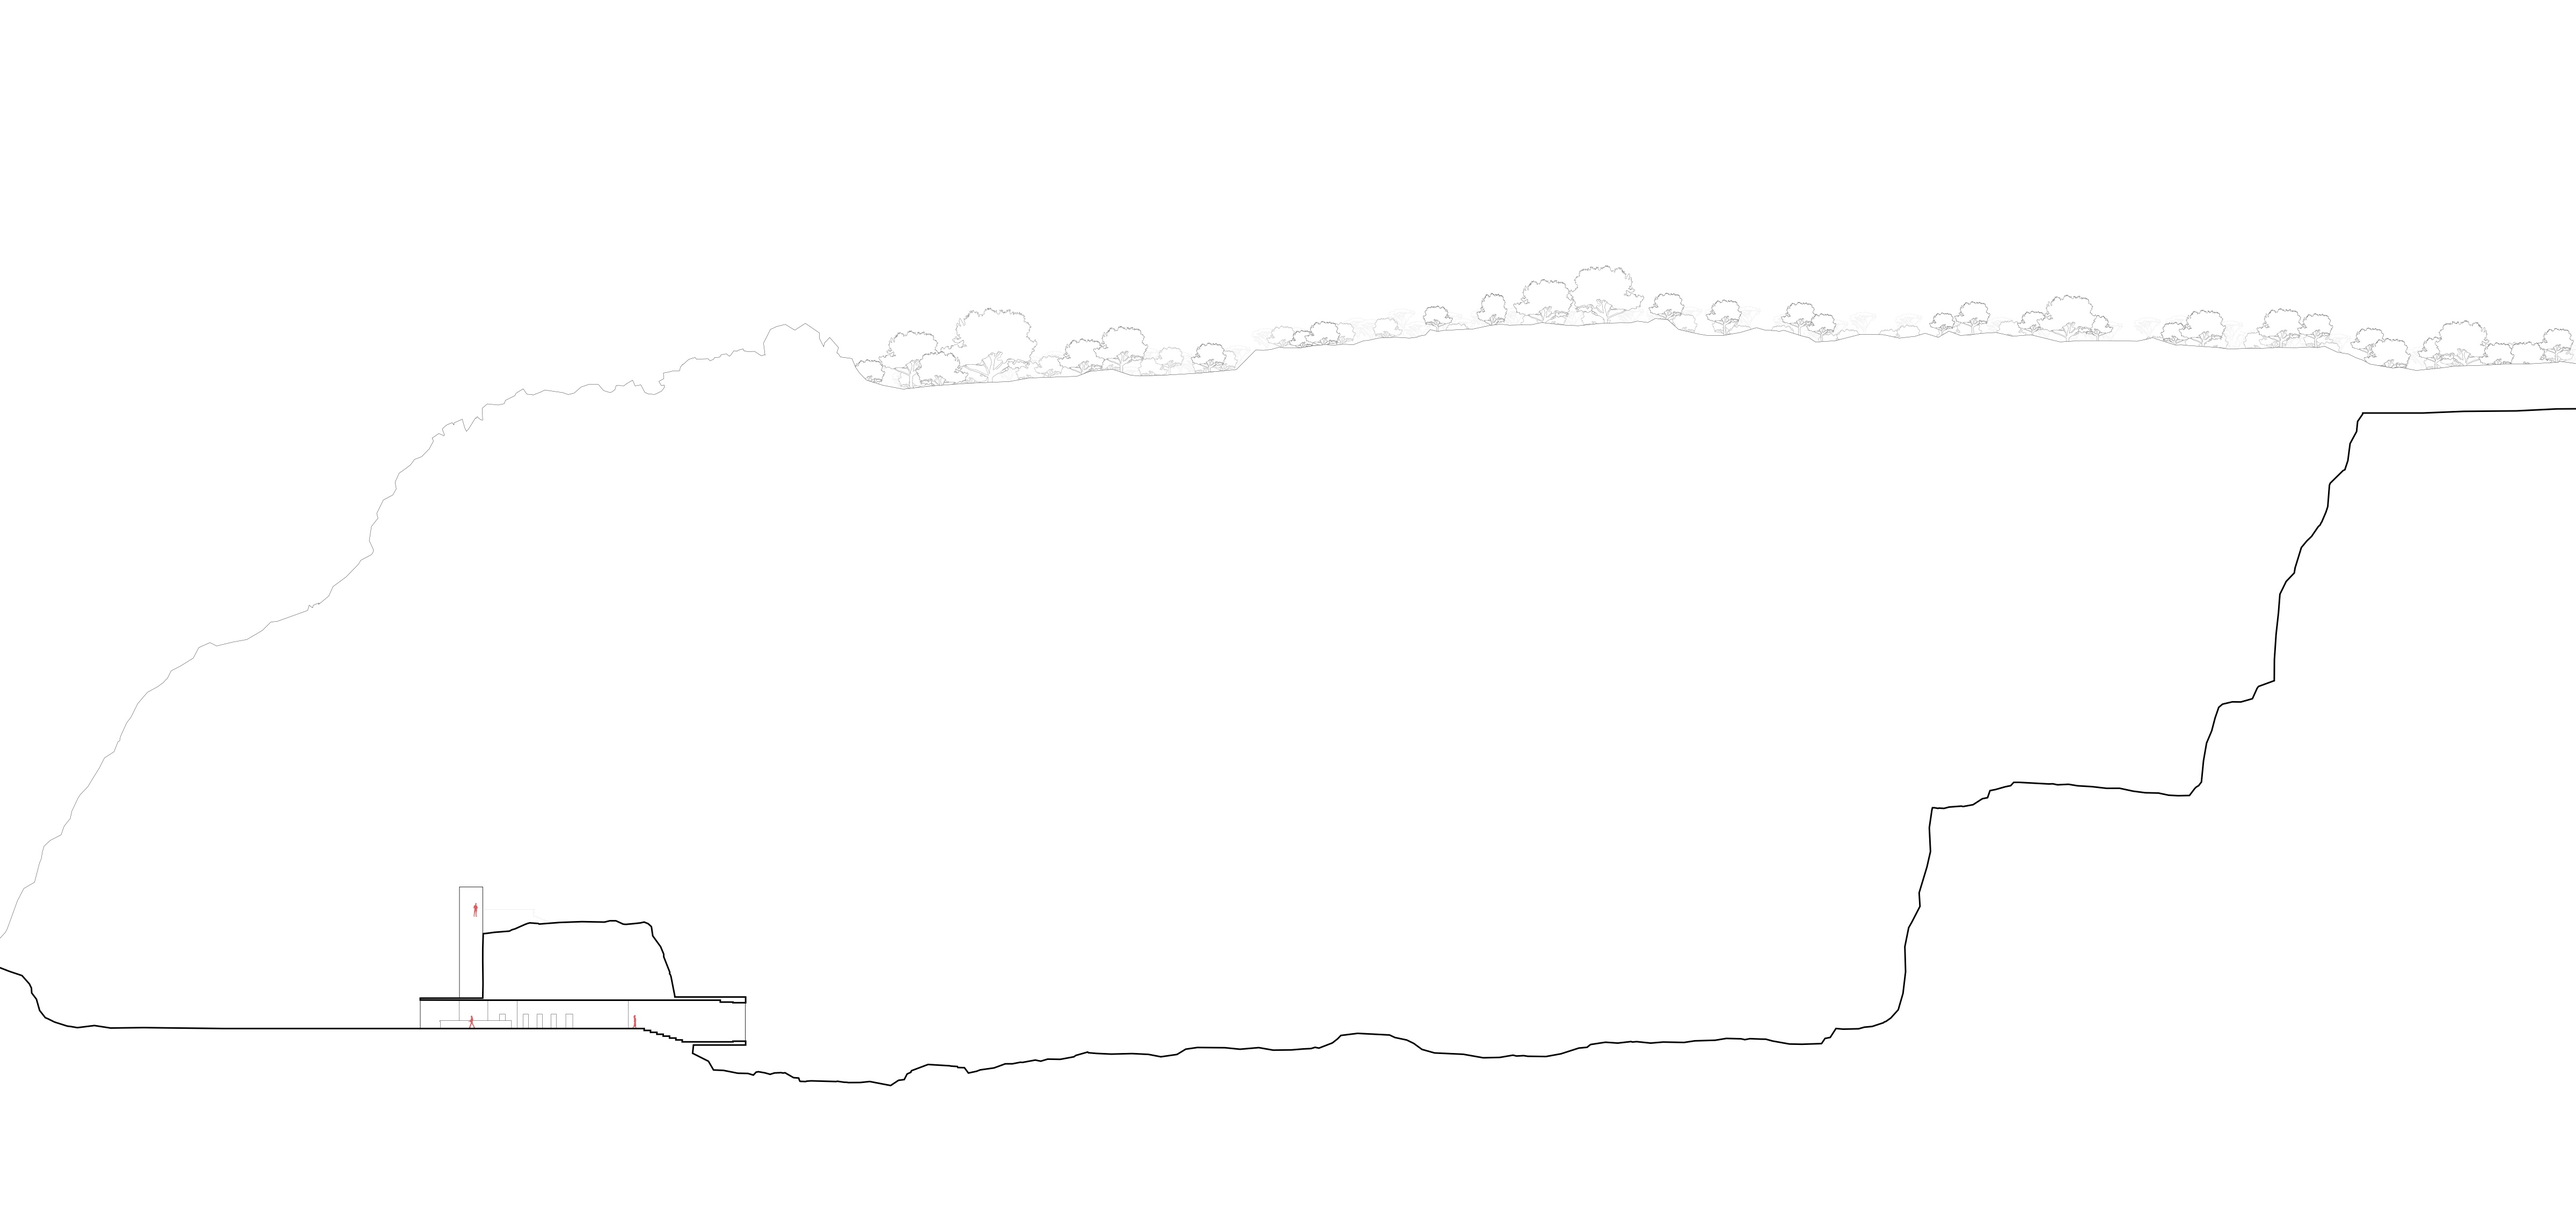
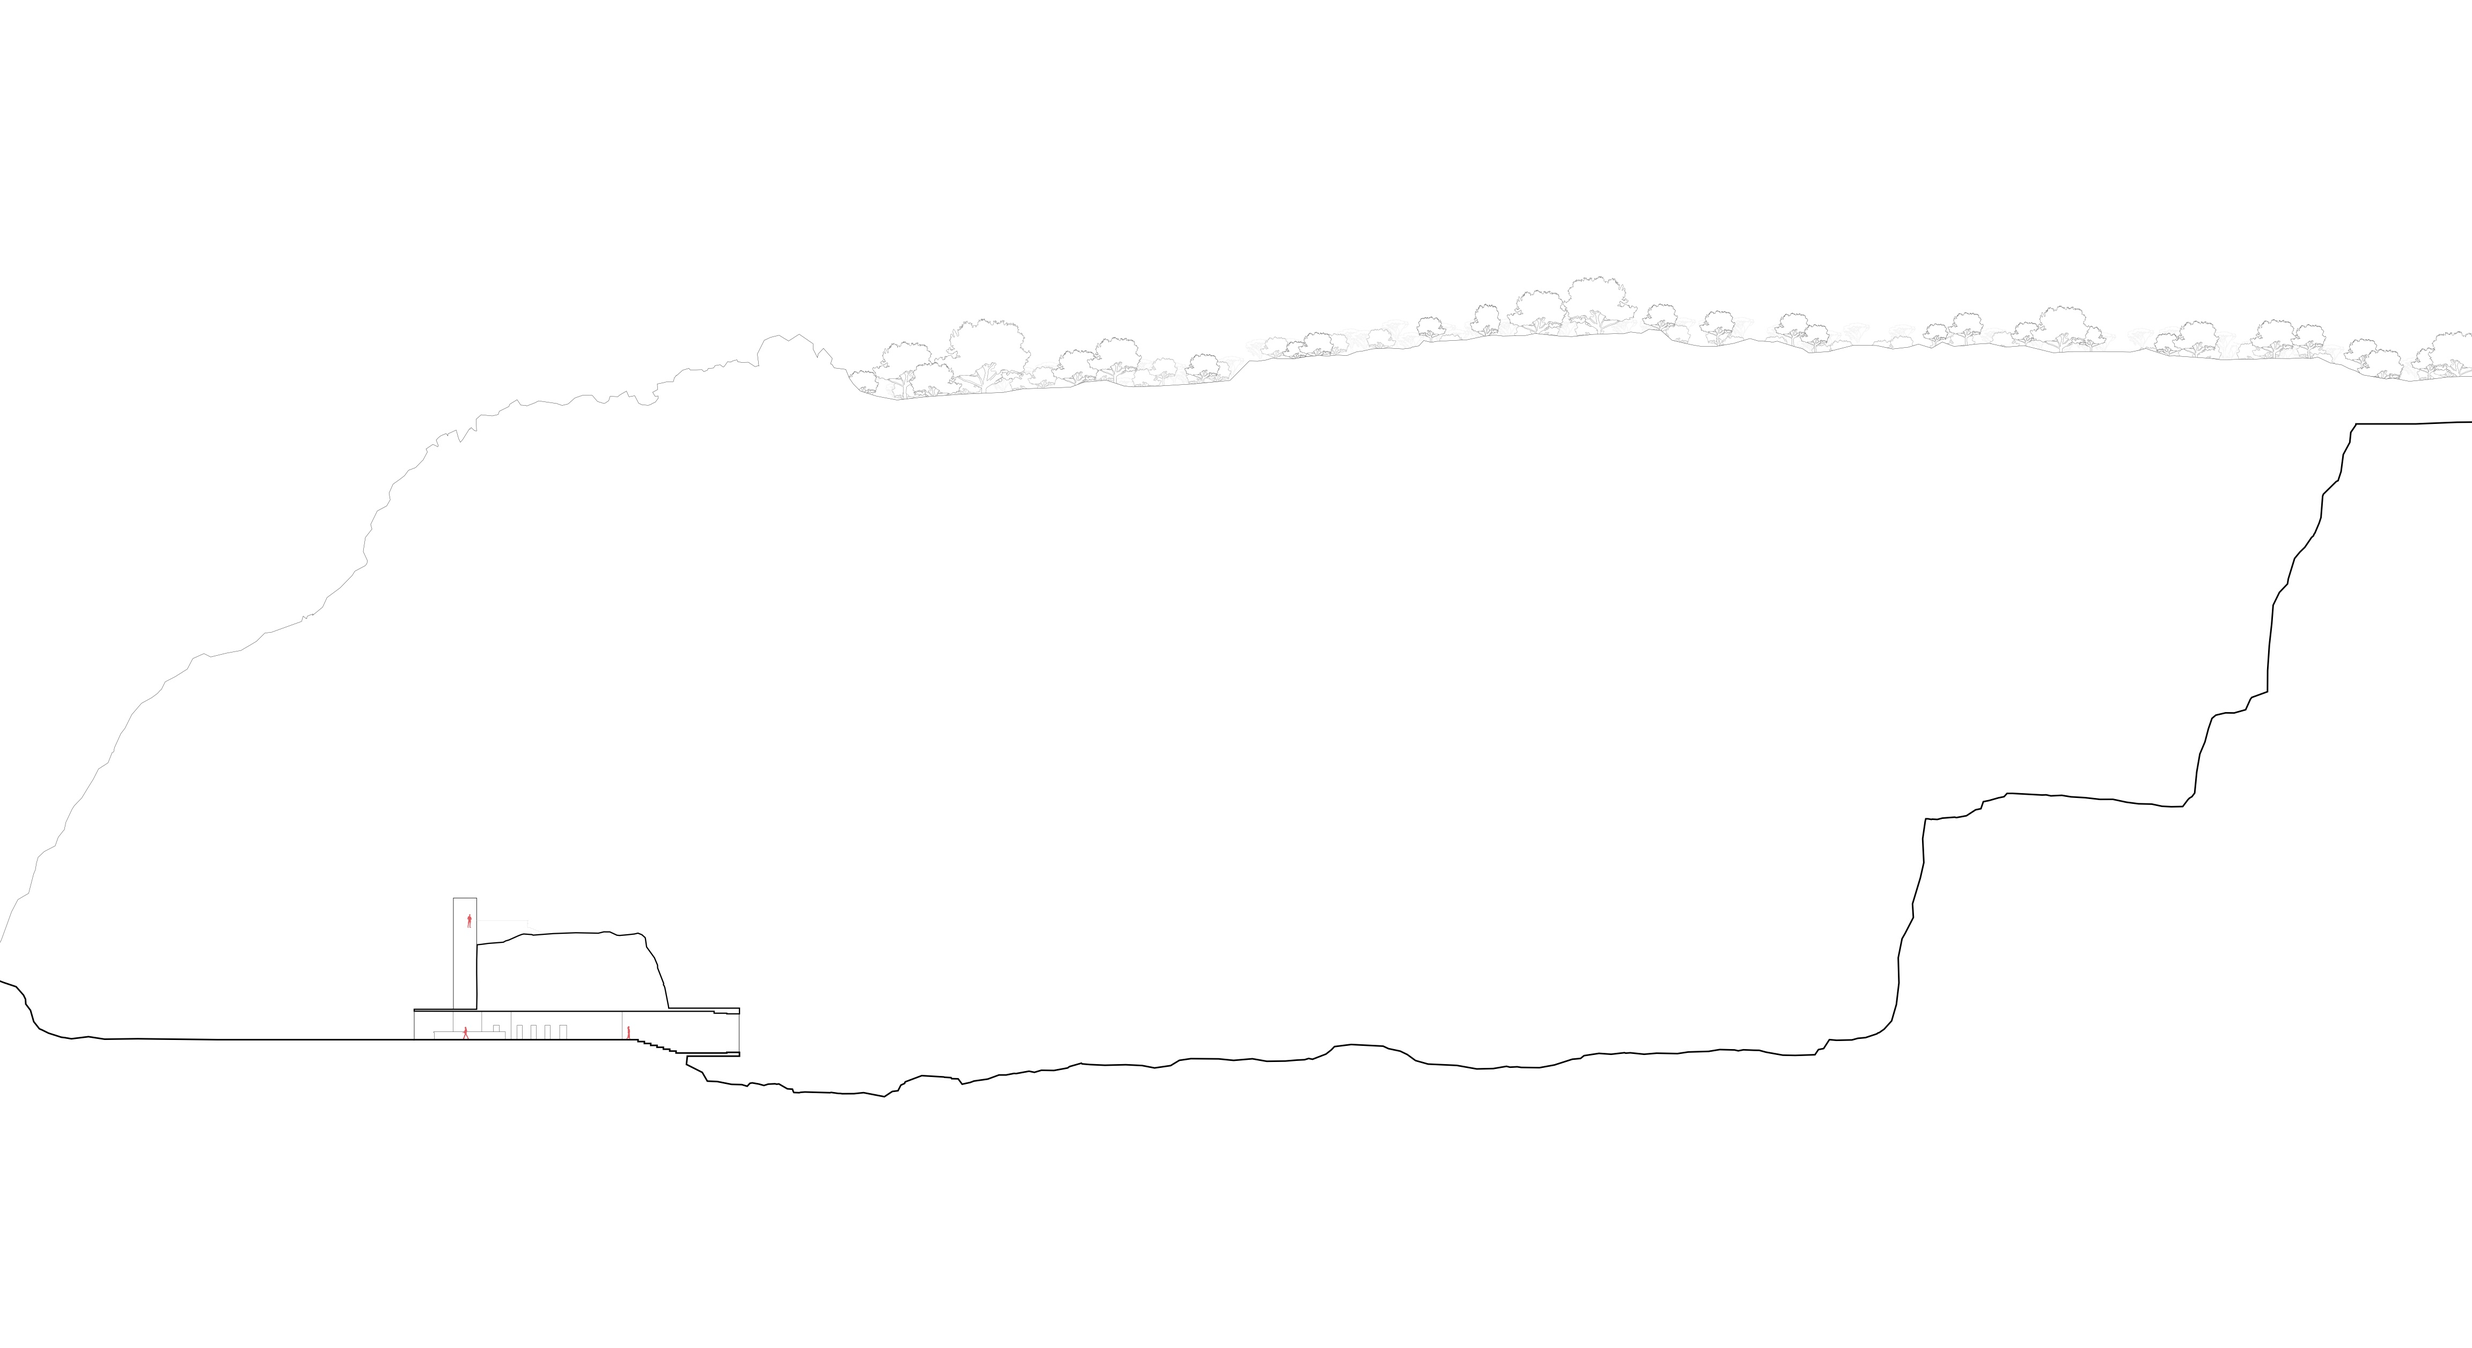
Ghost all header elements in on load — title, small title, and nav fade in together instead of nav/small title appearing on scroll

diff --git a/projects/architecture/in-the-quarry.html b/projects/architecture/in-the-quarry.html
@@ -343,19 +343,31 @@
             const fadeOver   = 80;
             let loadDone     = false;
 
-            // Load-animasjon via JS — setter starttilstand og animerer inn
-            bigTitle.style.opacity   = '0';
-            bigTitle.style.filter    = 'blur(12px)';
-            bigTitle.style.transform = 'scale(1.04)';
+            // Load-animasjon via JS — alt ghoster inn samtidig
+            bigTitle.style.opacity    = '0';
+            bigTitle.style.filter     = 'blur(12px)';
+            bigTitle.style.transform  = 'scale(1.04)';
+            smallTitle.style.opacity  = '0';
+            smallTitle.style.filter   = 'blur(12px)';
+            topNav.style.opacity      = '0';
+            topNav.style.filter       = 'blur(12px)';
 
             requestAnimationFrame(() => requestAnimationFrame(() => {
-                bigTitle.style.transition = 'opacity 0.8s cubic-bezier(0.16,1,0.3,1), filter 0.8s cubic-bezier(0.16,1,0.3,1), transform 0.8s cubic-bezier(0.16,1,0.3,1)';
-                bigTitle.style.opacity   = '1';
-                bigTitle.style.filter    = 'blur(0px)';
-                bigTitle.style.transform = 'scale(1)';
+                const t = 'opacity 0.8s cubic-bezier(0.16,1,0.3,1), filter 0.8s cubic-bezier(0.16,1,0.3,1), transform 0.8s cubic-bezier(0.16,1,0.3,1)';
+                bigTitle.style.transition   = t;
+                smallTitle.style.transition = t;
+                topNav.style.transition     = t;
+
+                bigTitle.style.opacity    = '1';
+                bigTitle.style.filter     = 'blur(0px)';
+                bigTitle.style.transform  = 'scale(1)';
+                smallTitle.style.opacity  = '1';
+                smallTitle.style.filter   = 'blur(0px)';
+                topNav.style.opacity      = '1';
+                topNav.style.filter       = 'blur(0px)';
             }));
 
-            // Fjern transition etter animasjonen så scroll styrer direkte
+            // Fjern transition etter animasjonen så scroll styrer bigTitle direkte
             setTimeout(() => {
                 bigTitle.style.transition = 'none';
                 loadDone = true;
@@ -372,12 +384,6 @@
                 bigTitle.style.opacity   = 1 - progress;
                 bigTitle.style.filter    = `blur(${progress * 12}px)`;
                 bigTitle.style.transform = `scale(${1 + progress * 0.04})`;
-
-                // Liten tittel + nav: blurrer inn
-                smallTitle.style.opacity = progress;
-                smallTitle.style.filter  = `blur(${(1 - progress) * 6}px)`;
-                topNav.style.opacity     = progress;
-                topNav.style.filter      = `blur(${(1 - progress) * 6}px)`;
             });
         });
     </script>
